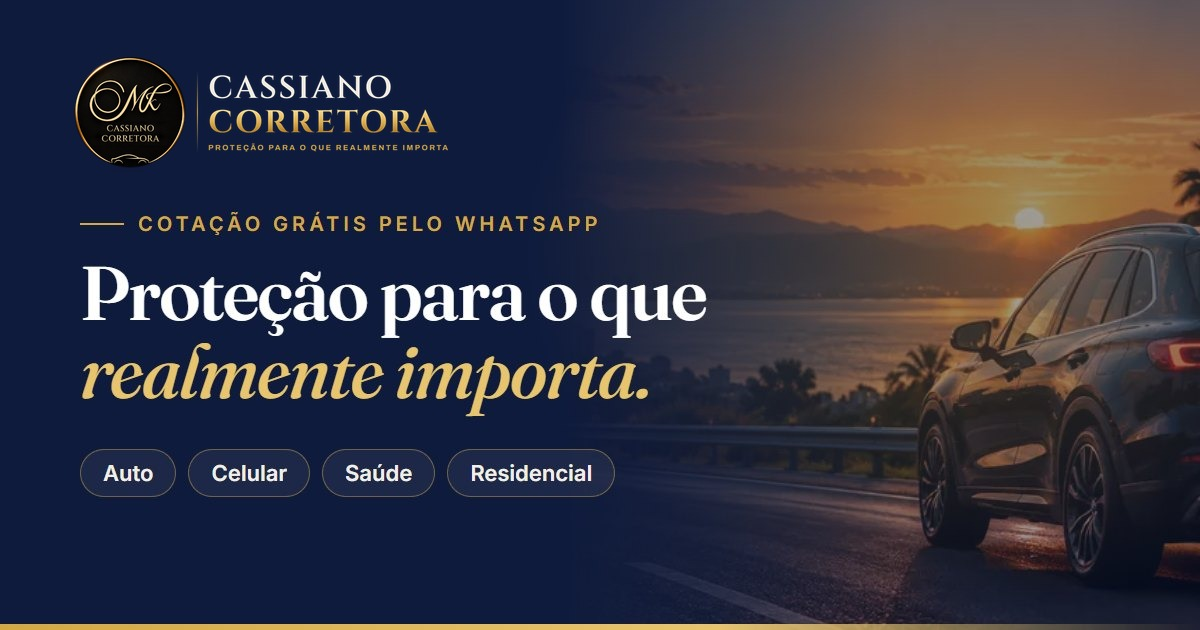
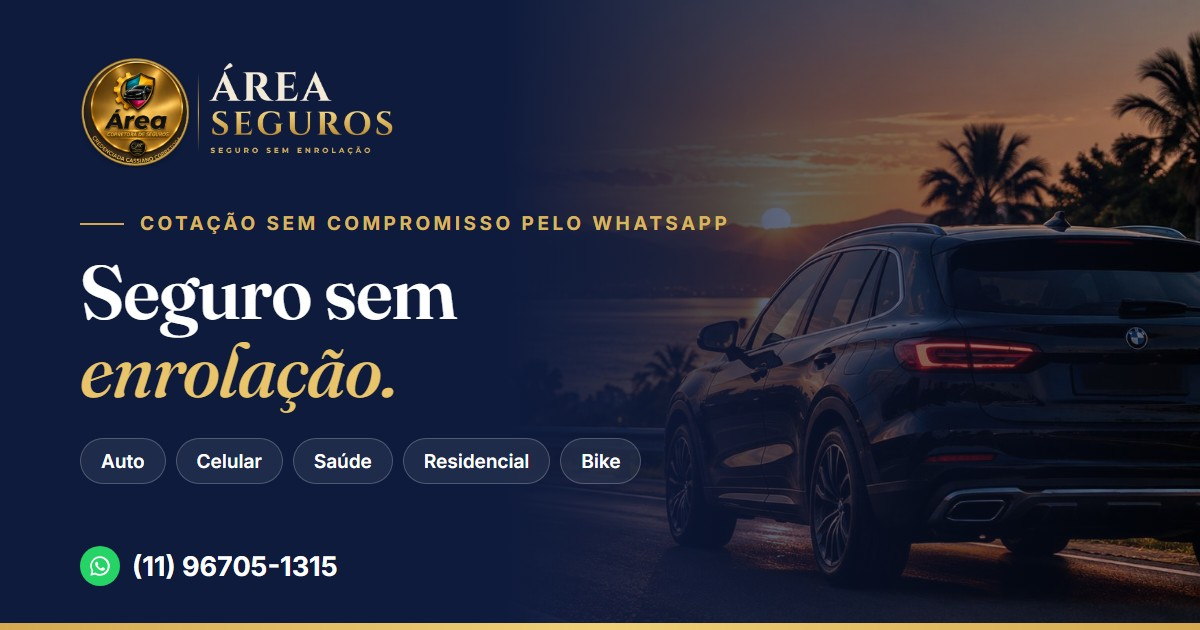
Imagem de compartilhamento com a marca Área Seguros

diff --git a/index.html b/index.html
@@ -14,7 +14,7 @@
   <meta property="og:image" content="https://areaseguros-cotacao.vercel.app/og.jpg" />
   <meta property="og:image:width" content="1200" />
   <meta property="og:image:height" content="630" />
-  <meta property="og:image:alt" content="Área Seguros — Seguro sem enrolação" />
+  <meta property="og:image:alt" content="Área Seguros — Seguro sem enrolação. Cotação pelo WhatsApp (11) 96705-1315" />
   <meta name="twitter:card" content="summary_large_image" />
   <link rel="icon" type="image/png" sizes="32x32" href="/favicon-32.png" />
   <link rel="icon" type="image/png" sizes="256x256" href="/favicon.png" />
